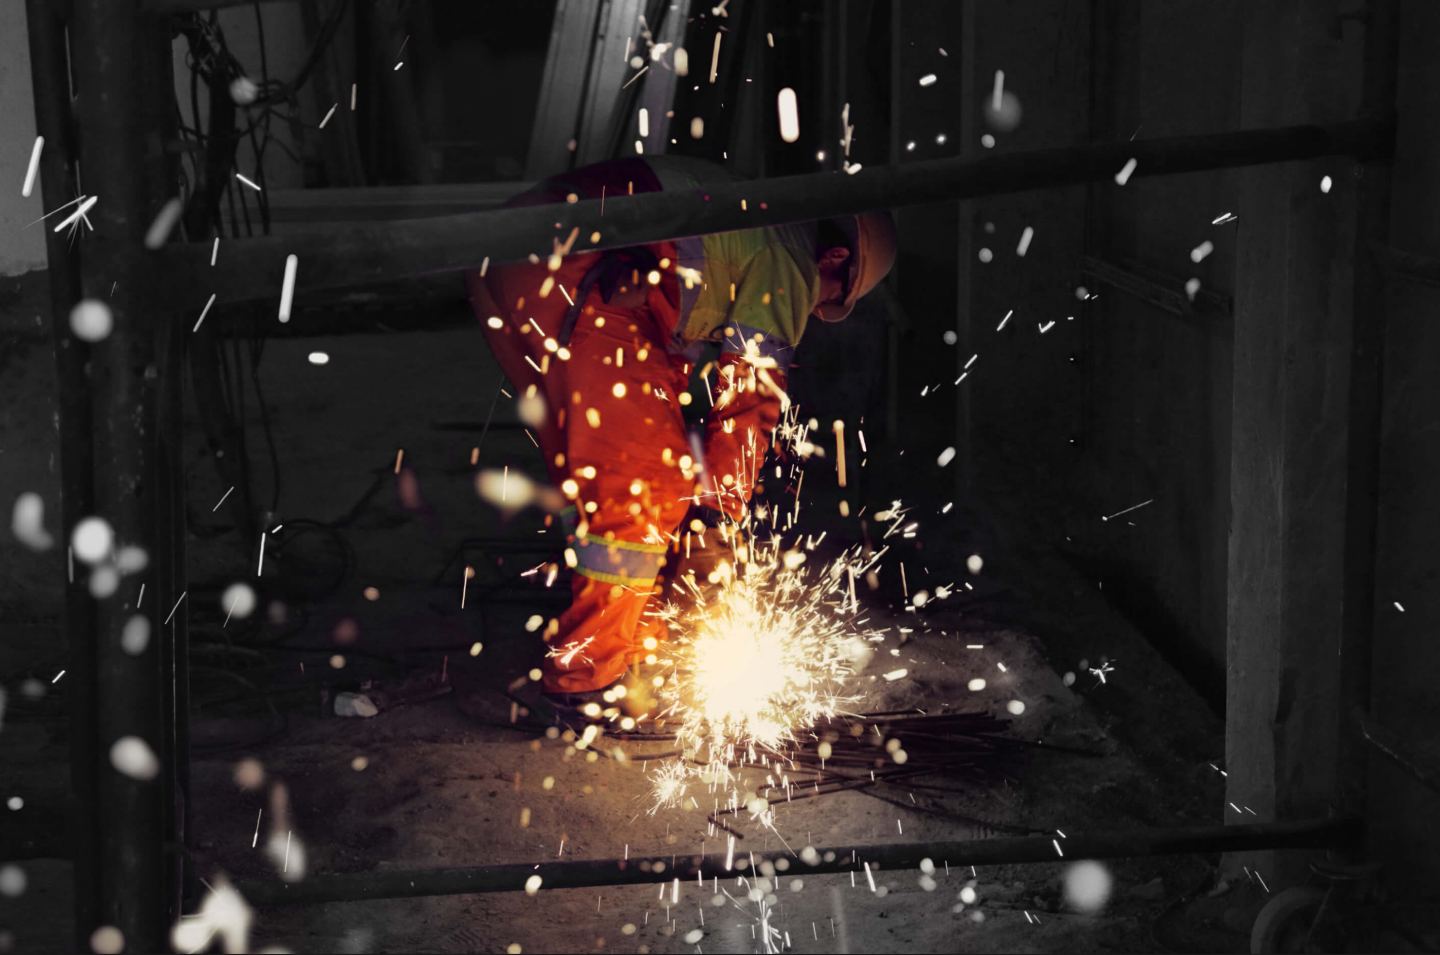
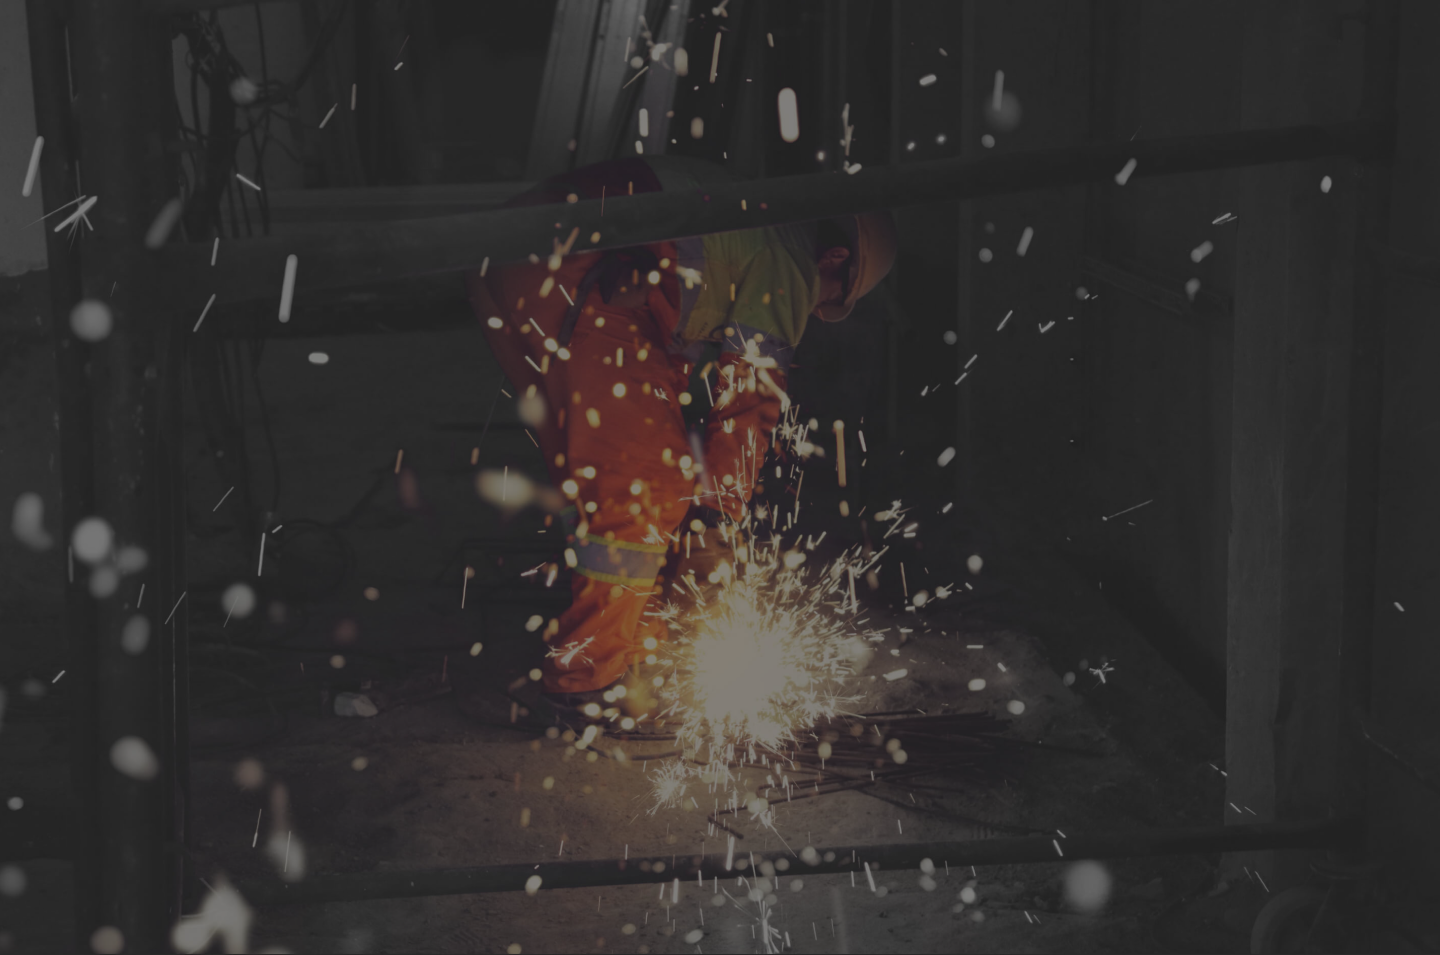
Hero component added

diff --git a/INF 316/Assignment3/index.html b/INF 316/Assignment3/index.html
@@ -8,38 +8,42 @@
     <link
       href="https://fonts.googleapis.com/css2?family=Barlow:ital,wght@0,100;0,200;0,300;0,400;0,500;0,600;0,700;0,800;0,900;1,100;1,200;1,300;1,400;1,500;1,600;1,700;1,800;1,900&display=swap"
       rel="stylesheet" />
-    <title>Document</title>
+    <title>Assignment 3</title>
     <link rel="stylesheet" href="styles.css" />
   </head>
   <body>
     <header class="header">
-      <div class="container">
-        <div class="header__inner">
-          <nav class="menu">
-            <ul class="menu__list">
-              <li class="menu__item">
-                <a href="#" class="menu__link">Home</a>
-              </li>
-              <li class="menu__item">
-                <a href="#" class="menu__link">About</a>
-              </li>
-              <li class="menu__item">
-                <a href="#" class="menu__link">Blog</a>
-              </li>
-              <li class="menu__item">
-                <a href="#" class="menu__link">Pages</a>
-              </li>
-              <li class="menu__item">
-                <a href="#" class="menu__link">Contact</a>
-              </li>
-            </ul>
-          </nav>
-          <div class="header__items">
-            <span class="header__cart">Cart (0)</span>
-            <button class="btn-primary">Get a quote</button>
-          </div>
+      <div class="container header__inner">
+        <nav class="menu">
+          <ul class="menu__list">
+            <li class="menu__item"><a href="#" class="menu__link">Home</a></li>
+            <li class="menu__item"><a href="#" class="menu__link">About</a></li>
+            <li class="menu__item"><a href="#" class="menu__link">Blog</a></li>
+            <li class="menu__item"><a href="#" class="menu__link">Pages</a></li>
+            <li class="menu__item">
+              <a href="#" class="menu__link">Contact</a>
+            </li>
+          </ul>
+        </nav>
+        <div class="header__items">
+          <span class="header__cart">Cart (0)</span>
+          <button class="btn btn-primary">Get a quote</button>
         </div>
       </div>
     </header>
+    <section class="hero">
+      <div class="container hero__content">
+        <h1 class="hero__title">We provide effective contracting services</h1>
+        <p class="hero__text">
+          Lorem ipsum dolor sit amet, consectetur adipiscing elit dolor sit
+          varius rhoncus, nullam pulvinar ut sollicitudin dictumst porttitor
+          porttitor quis.
+        </p>
+        <div class="hero__items">
+          <button class="btn btn-primary">Get a quote</button>
+          <button class="btn btn-secondary hero__btn">Our services</button>
+        </div>
+      </div>
+    </section>
   </body>
 </html>

diff --git a/INF 316/Assignment3/styles.css b/INF 316/Assignment3/styles.css
@@ -24,8 +24,15 @@ button {
   outline: none;
 }
 
+/* Header Section */
+
 .header {
   margin-top: 32px;
+  width: 100%;
+  position: absolute;
+  top: 0;
+  left: 0;
+  z-index: 1000;
 }
 
 .container {
@@ -35,7 +42,6 @@ button {
 
 .header__inner {
   width: 100%;
-  background-color: red;
   display: flex;
   align-items: stretch;
   justify-content: flex-end;
@@ -82,19 +88,74 @@ button {
   align-items: center;
 }
 
-.btn-primary {
+/* Hero Section */
+
+.hero {
+  background-image: url("./assets/header_bg.png");
+  background-size: cover;
+  background-repeat: no-repeat;
+  background-position: center;
+  height: 955px;
+  /* width: 1005; */
+  color: white;
+
+  display: flex;
+  justify-content: center;
+  align-items: center;
+}
+
+.hero__content {
+  display: flex;
+  align-items: center;
+  justify-content: center;
+  flex-direction: column;
+  max-width: 660px;
+  max-height: 360px;
+  gap: 16px;
+}
+
+.hero__title {
+  font-size: 72px;
+  font-weight: 400;
+  line-height: 84.02px;
+  text-align: center;
+}
+
+.hero__text {
+  font-size: 18px;
+  font-weight: 400;
+  line-height: 30.01px;
+  text-align: center;
+  padding-bottom: 15px;
+}
+
+.hero__items {
+  display: flex;
+  gap: 28px;
+}
+
+.btn {
   padding: 20px 24px;
   font-family: inherit;
   font-size: 16px;
   font-weight: 400;
   line-height: 18px;
   text-align: center;
-  background-color: #ff4d01;
-  color: white;
   cursor: pointer;
-  transition: background-color 0.3s;
 }
 
-.btn-primary:hover {
-  background-color: #e04604;
+.btn-primary {
+  background-color: #ff4d01;
+  border: 2px solid #ff4d01;
+  color: white;
+}
+
+.btn-secondary {
+  border: 2px solid #191919;
+  background-color: transparent;
+}
+
+.hero__btn {
+  border-color: white;
+  color: white;
 }
